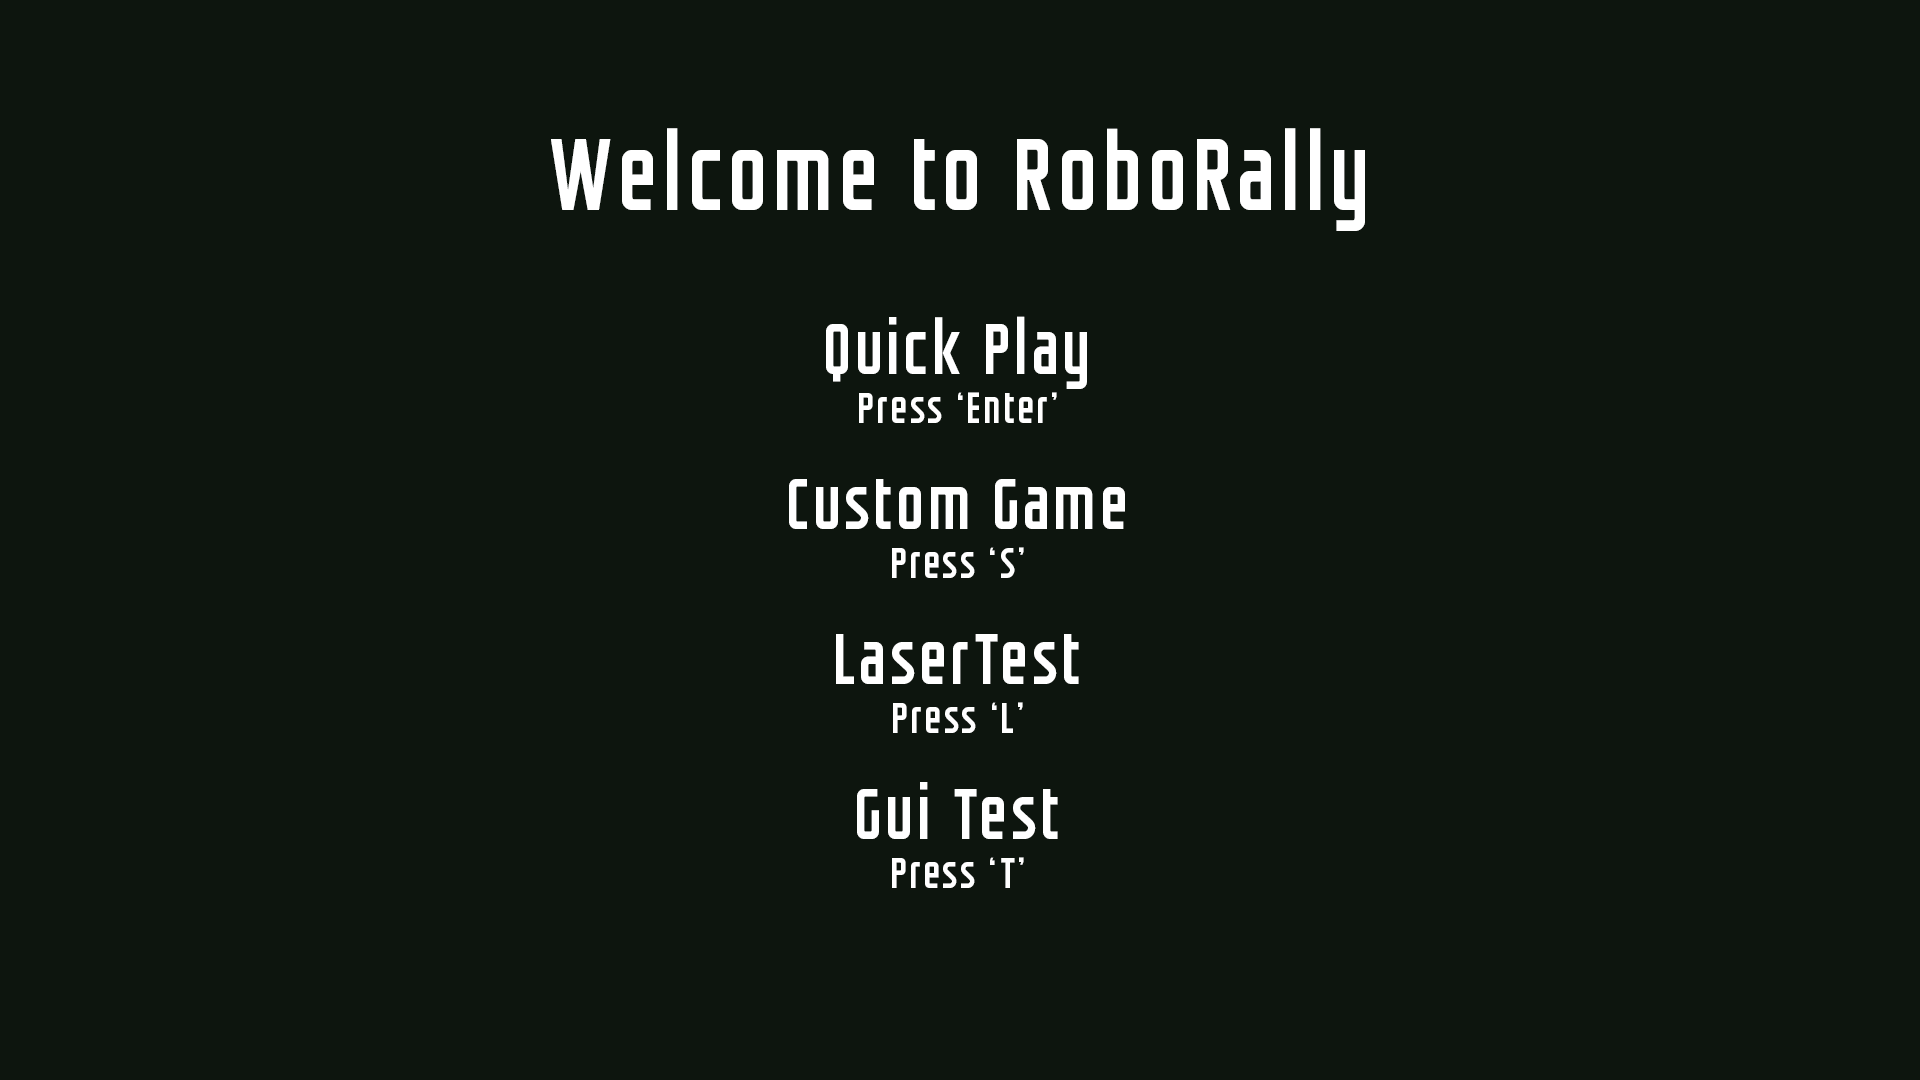
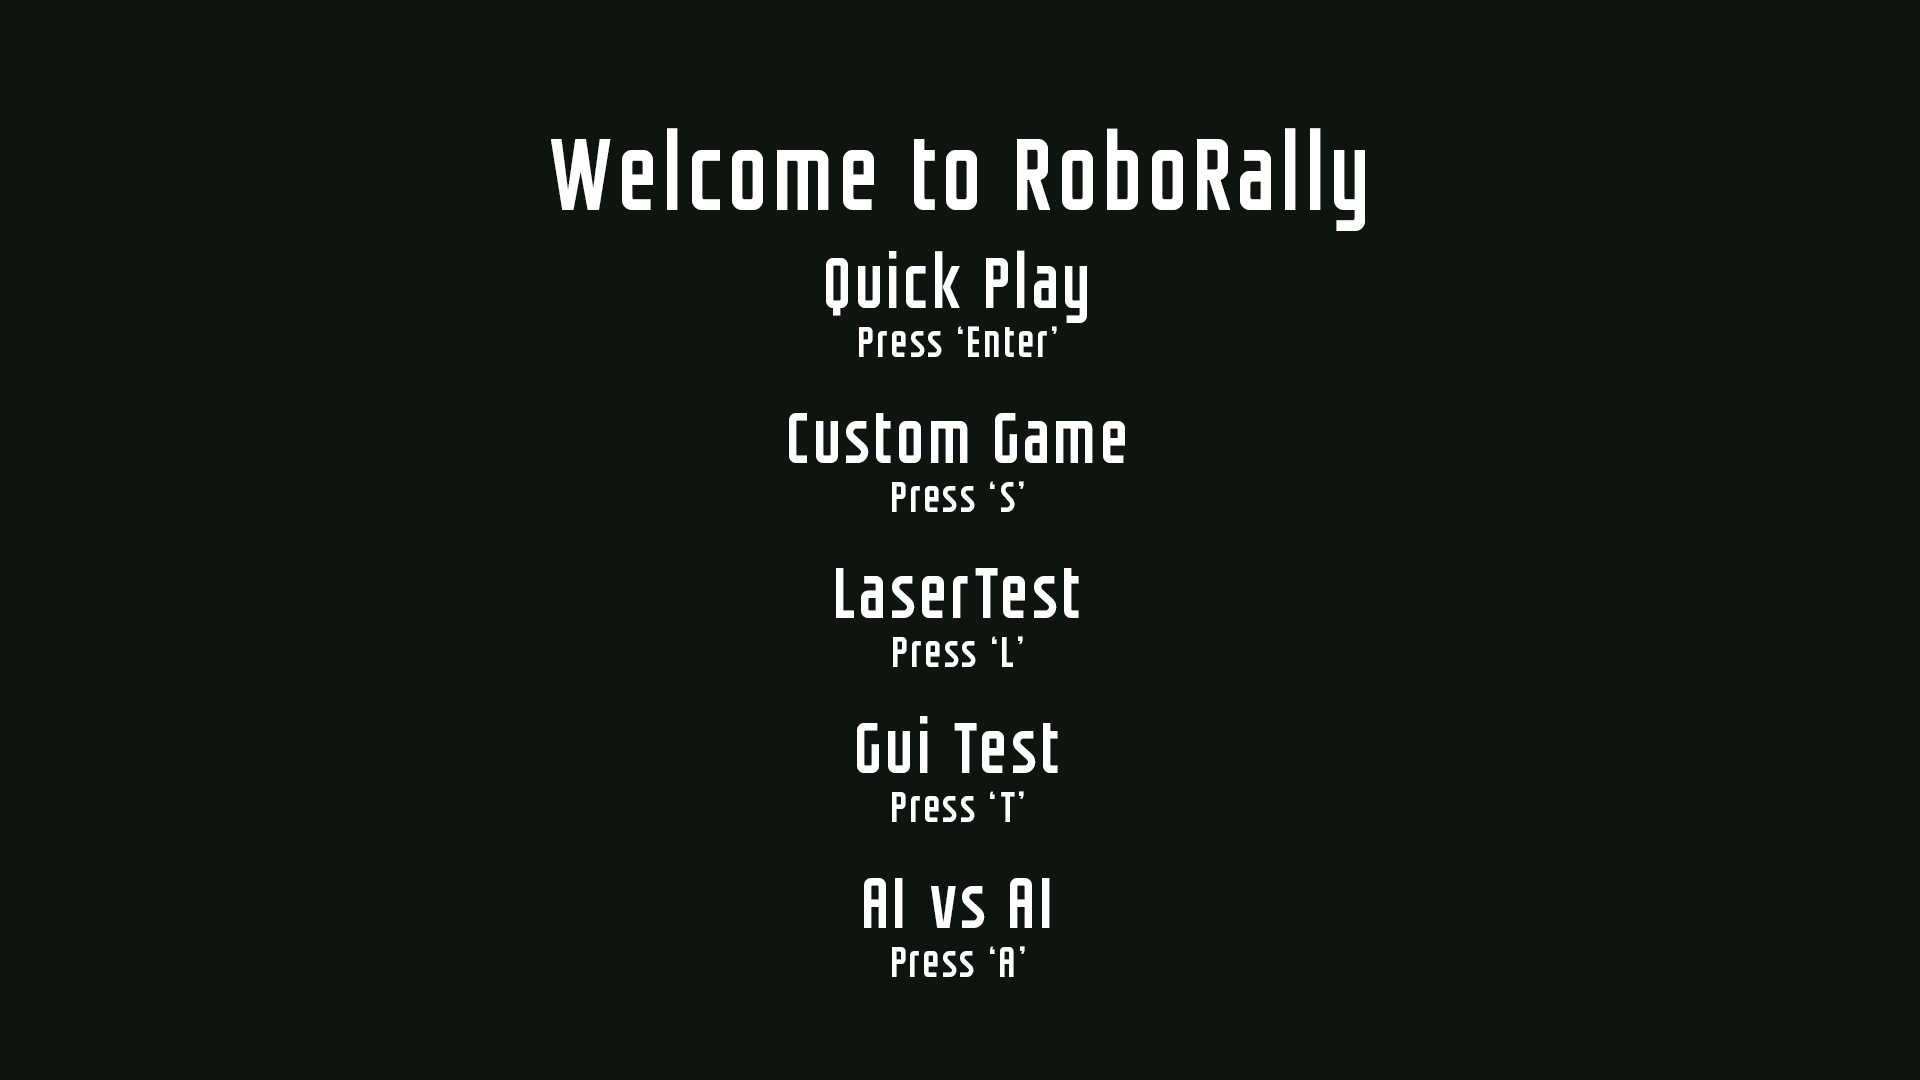
Add option in menu screen to watch Ai vs Ai

Changed region(s): [[0.4062, 0.2444, 0.5938, 0.9167]]

diff --git a/src/main/java/inf112/roborally/game/board/BoardLogic.java b/src/main/java/inf112/roborally/game/board/BoardLogic.java
@@ -1,5 +1,7 @@
 package inf112.roborally.game.board;
 
+import com.badlogic.gdx.Gdx;
+import inf112.roborally.game.RoboRallyGame;
 import inf112.roborally.game.enums.GameState;
 import inf112.roborally.game.enums.PlayerState;
 import inf112.roborally.game.objects.Player;
@@ -25,7 +27,9 @@ public class BoardLogic {
     public BoardLogic(ArrayList<Player> players) {
         this.players = players;
         aiBots = new ArrayList<>();
-        for (int i = 0; i < players.size(); i++)
+        if (((RoboRallyGame) Gdx.app.getApplicationListener()).AIvsAI)
+            aiBots.add(players.get(0));
+        for (int i = 1; i < players.size(); i++)
             aiBots.add(players.get(i));
 
         phase = 0;
@@ -106,7 +110,6 @@ public class BoardLogic {
     }
 
     private boolean allPlayersReady() {
-        System.out.println("Players: " + players.size());
         for (Player player : players) {
             if (!player.isReady()) return false;
         }
@@ -134,16 +137,20 @@ public class BoardLogic {
         System.out.println("executing phase " + phase);
         sortPlayersByPriority();
         executeCards();
-//        sleepThread();
+        if (((RoboRallyGame) Gdx.app.getApplicationListener()).AIvsAI)
+            sleepThread(100);
+        else
+            sleepThread(500);
         checkIfAPlayerHasWon();
         phase++;
     }
 
-    private void sleepThread() {
+    private void sleepThread(int millis) {
         if (players.size() > 0 && !players.get(0).isDebuggingActive()) {
             try {
-                Thread.sleep(200);
-            } catch (InterruptedException e) {
+                Thread.sleep(millis);
+            }
+            catch (InterruptedException e) {
                 e.printStackTrace();
             }
         }
@@ -155,7 +162,8 @@ public class BoardLogic {
         }
         try {
             Collections.sort(players);
-        } catch (NullPointerException e) {
+        }
+        catch (NullPointerException e) {
             throw new NullPointerException("AIRobots: " + aiBots.size() + "\n Players: " + players.size());
         }
     }

diff --git a/src/main/java/inf112/roborally/game/screens/MenuScreen.java b/src/main/java/inf112/roborally/game/screens/MenuScreen.java
@@ -69,18 +69,27 @@ public class MenuScreen implements Screen {
         if (Gdx.input.isKeyJustPressed(Input.Keys.ENTER)) {
             roboRallyGame.createGameScreen();
             roboRallyGame.setScreen(roboRallyGame.gameScreen);
-        } else if (Gdx.input.isKeyJustPressed(Input.Keys.S)) {
+        }
+        else if (Gdx.input.isKeyJustPressed(Input.Keys.S)) {
             roboRallyGame.createSetupScreen();
             roboRallyGame.setScreen(roboRallyGame.setupScreen);
             dispose();
-        } else if (Gdx.input.isKeyJustPressed(Input.Keys.ESCAPE)) {
+        }
+        else if (Gdx.input.isKeyJustPressed(Input.Keys.ESCAPE)) {
             Gdx.app.exit();
-        } else if (Gdx.input.isKeyJustPressed(Input.Keys.T)) {
+        }
+        else if (Gdx.input.isKeyJustPressed(Input.Keys.T)) {
             dispose();
             roboRallyGame.setScreen(roboRallyGame.testScreen);
-        } else if (Gdx.input.isKeyJustPressed(Input.Keys.L)) {
+        }
+        else if (Gdx.input.isKeyJustPressed(Input.Keys.L)) {
             dispose();
             roboRallyGame.setScreen(roboRallyGame.laserTestScreen);
+        }
+        else if (Gdx.input.isKeyJustPressed(Input.Keys.A)) {
+            roboRallyGame.AIvsAI = true;
+            roboRallyGame.createGameScreen();
+            roboRallyGame.setScreen(roboRallyGame.gameScreen);
         }
     }
 

diff --git a/src/main/java/inf112/roborally/game/RoboRallyGame.java b/src/main/java/inf112/roborally/game/RoboRallyGame.java
@@ -26,6 +26,7 @@ public class RoboRallyGame extends Game {
 
     public static final int MAX_PLAYERS = 8;
 
+    public boolean AIvsAI = false;
 
     public OrthographicCamera dynamicCamera;
     public Viewport dynamicViewPort;
